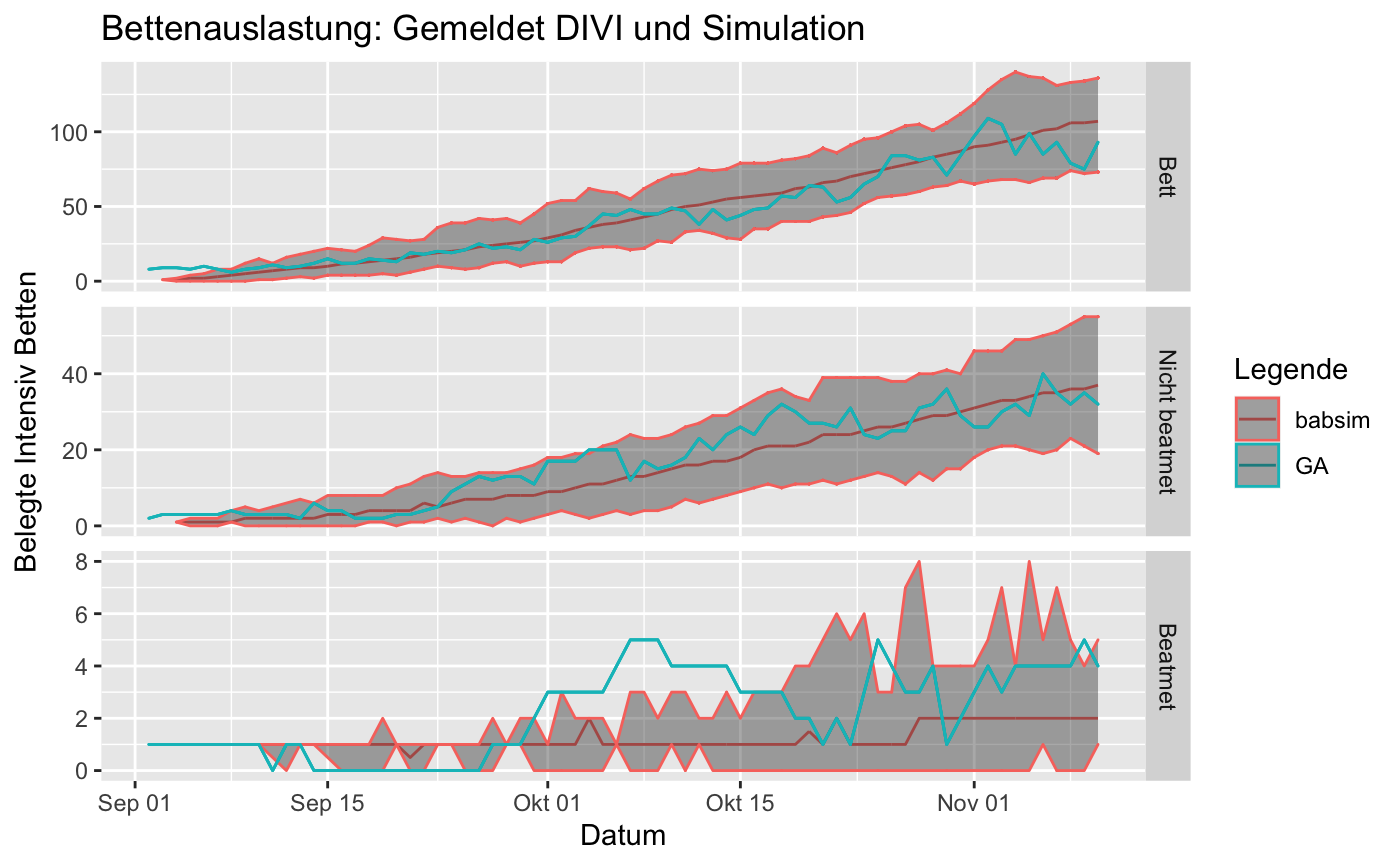
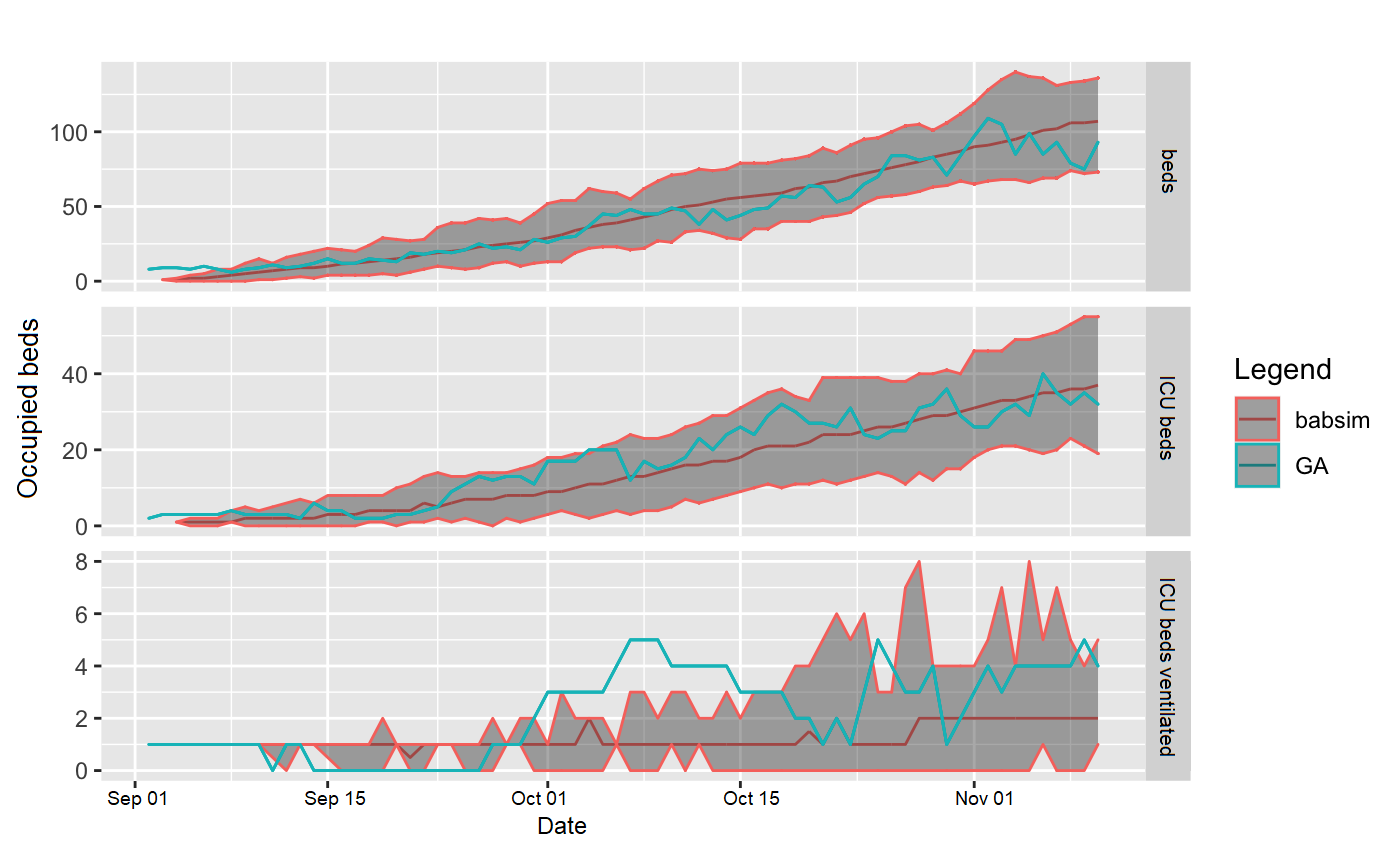
figs

diff --git a/bart21a.tex b/bart21a.tex
@@ -62,41 +62,65 @@
 \thanks{Identify applicable funding agency here. If none, delete this.}
 }
 
-\author{\IEEEauthorblockN{1\textsuperscript{st} Thomas Bartz-Beielstein}
+\author{\IEEEauthorblockN{Thomas Bartz-Beielstein}
 \IEEEauthorblockA{\textit{Inst. Data Science, Engineering, and Analytics} \\
-\textit{TH Köln}\\
-Cologne, Germany \\
+\textit{TH Köln}, Cologne, Germany \\
 \url{https://orcid.org/0000-0002-5938-5158}}
 \and
-\IEEEauthorblockN{2\textsuperscript{nd} Given Name Surname}
-\IEEEauthorblockA{\textit{dept. name of organization (of Aff.)} \\
-\textit{name of organization (of Aff.)}\\
-City, Country \\
-email address or ORCID}
+\IEEEauthorblockN{Marcel Dröscher}
+\IEEEauthorblockA{\textit{Inst. Data Science, Engineering, and Analytics} \\
+\textit{TH Köln}, Cologne, Germany \\
+Marcel\_ulrich.droescher@smail.th-koeln.de}
 \and
-\IEEEauthorblockN{3\textsuperscript{rd} Given Name Surname}
-\IEEEauthorblockA{\textit{dept. name of organization (of Aff.)} \\
-\textit{name of organization (of Aff.)}\\
-City, Country \\
-email address or ORCID}
+\IEEEauthorblockN{Alpar Gür}
+\IEEEauthorblockA{\textit{Inst. Data Science, Engineering, and Analytics} \\
+\textit{TH Köln}, Cologne, Germany \\
+alpar.guer@smail.th-koeln.de}
 \and
-\IEEEauthorblockN{4\textsuperscript{th} Given Name Surname}
+\IEEEauthorblockN{Alexander Hinterleitner}
 \IEEEauthorblockA{\textit{dept. name of organization (of Aff.)} \\
-\textit{name of organization (of Aff.)}\\
-City, Country \\
-email address or ORCID}
+\textit{TH Köln}, Cologne, Germany \\
+Alexander.Hinterleitner@th-koeln.de}
 \and
-\IEEEauthorblockN{5\textsuperscript{th} Given Name Surname}
-\IEEEauthorblockA{\textit{dept. name of organization (of Aff.)} \\
-\textit{name of organization (of Aff.)}\\
-City, Country \\
-email address or ORCID}
+\IEEEauthorblockN{Olaf Mersmann}
+\IEEEauthorblockA{\textit{Inst. Data Science, Engineering, and Analytics} \\
+\textit{TH Köln}, Cologne, Germany \\
+olaf.mersmann@th-koeln.de}
 \and
-\IEEEauthorblockN{6\textsuperscript{th} Given Name Surname}
-\IEEEauthorblockA{\textit{dept. name of organization (of Aff.)} \\
-\textit{name of organization (of Aff.)}\\
-City, Country \\
-email address or ORCID}
+\IEEEauthorblockN{Dessislava Peeva}
+\IEEEauthorblockA{\textit{Inst. Data Science, Engineering, and Analytics} \\
+\textit{TH Köln}, Cologne, Germany \\
+dessislava\_todorova.peeva@smail.th-koeln.de}
+\and
+\IEEEauthorblockN{Lennard Reese}
+\IEEEauthorblockA{\textit{Inst. Data Science, Engineering, and Analytics} \\
+\textit{TH Köln}, Cologne, Germany \\
+lennard.reese@smail.th-koeln.de}
+\and
+\IEEEauthorblockN{Nicolas Rehbach}
+\IEEEauthorblockA{\textit{Inst. Data Science, Engineering, and Analytics} \\
+\textit{TH Köln}, Cologne, Germany \\
+nicolas\_alexander.rehbach@smail.th-koeln.de}
+\and
+\IEEEauthorblockN{Frederik Rehbach}
+\IEEEauthorblockA{\textit{Inst. Data Science, Engineering, and Analytics} \\
+\textit{TH Köln}, Cologne, Germany \\
+frederik.rehbach@th-koeln.de}
+\and
+\IEEEauthorblockN{Amrita Sen}
+\IEEEauthorblockA{\textit{Inst. Data Science, Engineering, and Analytics} \\
+\textit{TH Köln}, Cologne, Germany \\
+amrita.sen@gmx.de}
+\and
+\IEEEauthorblockN{Aleksandr Subbotin}
+\IEEEauthorblockA{\textit{Inst. Data Science, Engineering, and Analytics} \\
+\textit{TH Köln}, Cologne, Germany \\
+aleksandr.subbotin@smail.th-koeln.de}
+\and
+\IEEEauthorblockN{Martin Zaefferer}
+\IEEEauthorblockA{\textit{Inst. Data Science, Engineering, and Analytics} \\
+\textit{TH Köln}, Cologne, Germany \\
+martin.zaefferer@th-koeln.de}
 }
 
 \maketitle
@@ -119,10 +143,10 @@ Policies and decisions made by hospital management professionals as well as poli
 
 This article reports the experiences that were collected over the last 12 months and provides answers to the following questions:
 \begin{compactenum}[(Q-1)]
-\item How to automate data collection and curation? 
 \item How to select a suitable simulation model?
 \item How to find an optimization algorithm that is able to solve noisy, dynamic, high-dimensional real-world problems?
-\item How to integrate domain knowledge and how to analyze simulation output?
+\item How to integrate domain knowledge?
+\item How to adapt a complex simulation model to a new environment?
 \end{compactenum}
 In the following, a holistic approach that demonstrates how tools from evolutionary optimization, simulation, sensitivity analysis, and machine learning can be combined to predict and understand demanding resource allocation problems is presented.
 We illustrate how the pieces can be put together in a complex software project, i.e., we consider the collection of noisy, dynamic, and heterogeneous data, data preprocessing, surrogate models to accelerate simulation, the optimization of the model parameters, and a parameter sensitivity analysis.
@@ -188,20 +212,46 @@ Information concerning \gls{ICU} in Germany can be retrieved from the \gls{DIVI}
 \gls{DIVI} provides an API and a daily report. The API does not provide all data the daily report consists of and therefore is not a viable option for this project.
 Web scraping was implemented as a reliable solution to retrieve the most current daily report from \gls{DIVI}.
 
+The official simulator, which can be accessed via \url{https://www.th-koeln.de/babsimhospital}, uses \gls{DIVI} and \gls{RKI} data.
+Its parameters are based on discussions with experts from Germany, especially \gls{ICU} doctors and experts from health administration.
+The online version is described in Section~\ref{sec:online}.
+
+This paper describes an extension of the interface that enables usage of data independently from \gls{DIVI} and \gls{RKI} data, i.e., an interface to csv files and excel files can be uses so that any kind of field and simulation data can be processed, simulated, and optimized.
+To demonstrated our approach, anonymised data from a region in the UK was used. T
+
+\begin{figure*}
+    \centering
+    \includegraphics[width=0.75\linewidth]{rkidata.png}
+    \caption{}
+\label{fig:rki}
+\end{figure*}
+
+\begin{figure*}
+    \centering
+    \includegraphics[width=0.75\linewidth]{dividata.png}
+    \caption{}
+\label{fig:divi}
+\end{figure*}
 
 \section{The Simulator}\label{sec:sim}
+\subsection{The Simulation Model}
 
 \babsimhospital simulates the typical paths that COVID-19 infected patients follow during their hospital stays. 
 The \gls{DES} processes every single recorded infection until the patients' recovery or death. 
 Patients follow a trajectory, i.e., they move with a probability $p_{ij}$ from state $S_i$ to state $S_j$  after a transition-specific duration $d_{ij}$.
-A graph can be used to model this behavior (\figref{fig:hospital}).
-\begin{figure}
+A graph can be used to model this behavior (\figref{fig:prob}).
+
+
+\begin{figure*}
     \centering
-    \includegraphics[width=0.95\linewidth]{hospital.pdf}
-    \caption{Simplified model of patient flows in a hospital. Nodes represent states ($S_i$). Edges represent state changes with associated probabilities ($p_{ij}$) and durations ($d_{ij})$.
-    Probabilities and durations at time step $t$ of the optimization will be collectively referred to as \emph{model parameters} $\vec{x}_t$.}
-\label{fig:hospital}
-\end{figure}
+    \includegraphics[width=0.75\linewidth]{prob.png}
+    \caption{Full model of patient flows in a hospital. Nodes represent states ($S_i$). Edges represent state changes with associated probabilities ($p_{ij}$). The nodes are labeled as follows: \emph{Infec:}\/ Number of people tested positiv for Covid-19, published by RKI, 
+\emph{out:}\/ Infected people not hospitalized, \emph{hosp:}\/ Hopitalized infected people, \emph{normal:}\/ Isolation ward, \emph{intens:}\/ Intensive care ward without invasive ventilation, \emph{vent:}\/ Intensive care ward with invasive ventilation, \emph{intafter:}\/ Intensive aftercare ward without invasive ventilation, \emph{aftercare:}\/ Aftercare isolation ward, \emph{healthy:}\/ Discharged as recovered, and \emph{death:}\/ Deceased.
+This graph shows the core of \babsimhospital. This sets \babsimhospital apart from other simulators. It enables a detailed analysis of the underlying events. Upon request, it can be adapted to the individual circumstances of interested parties.}
+\label{fig:prob}
+\end{figure*}
+
+
 For example, an infected patient (state $S_1$) goes to the hospital (state $S_2$) with probability $p_{12}$ after $d_{12}$ days. With probability $p_{17}$, she recovers (state $S_7$) after $d_{17}$ days. 
 The probabilities of outgoing nodes sum to 1, e.g., $p_{17} = 1 - p_{12}$.
 The modeling process includes four types of parameters: 
@@ -211,6 +261,7 @@ The modeling process includes four types of parameters:
 \item[distribution properties,] e.g., truncated and translated gamma distribution,
 \item[risk factors] depending on demographic groups, e.g., age, gender. 
 \end{description}
+
 
 The "risk" attribute is an important factor for the duration and severity of a COVID-19 infection. 
 Statistics show that the risk depends on the age and gender of the infected person. 
@@ -238,6 +289,42 @@ The simulation output, i.e, the required resources on each day $t$ will be denot
 \hat{y}_t = \left( \hat{R}_{\text{bed}}(t),   \hat{R}_{\text{icu}}(t), \hat{R}_{\text{vent}}(t) \right)
 \end{equation}
 Although the tool was designed to assist the German local authorities, it was already adapted and used for resource planing in hospitals in other countries.
+
+
+\subsection{The Online-Version}\label{sec:online}
+
+See Fig.~\ref{fig:demo}
+
+\begin{figure*}
+    \centering
+    \includegraphics[width=\linewidth]{demo.png}
+    \caption{Online version. }
+\label{fig:demo}
+\end{figure*}
+
+\babsimhospital has the following advantages for crisis teams:
+\begin{compactitem}
+\item Comparison with your own local planning
+\item Simulation of local events
+\item Adaptation to your own situation
+\item Simulation of any scenario (worst / best case)
+\item Simulation of any pandemic scenario, considering the local situation
+\item Standardized approach 
+\end{compactitem}
+Furthermore, it provides benefits for medical professionals, e.g.,
+\begin{compactitem}
+\item Analysis of the pandemic at local, regional, state and federal level
+\item Consideration of special risk groups
+\item Validation of the length of stay
+\item Validation of the probabilities
+\end{compactitem}
+
+Last, but not least, administration and management can benefit from \babsimhospital, because
+\begin{compactitem}
+\item Assessment of the situation of individual hospitals taking local events into account
+\item Consideration of relevant resources: beds, ventilators, rooms, protective clothing
+\item Personnel planning: medical and nursing staff
+\end{compactitem}
 
 \section{Optimization}\label{sec:optim}
 After the optimization-via-simulation problem is defined, this section describes the current state in optimization and discusses the selection of a suitable optimizer. 
@@ -309,15 +396,24 @@ To accelerate the \gls{SPOT}, simulations were run in parallel.
 Besides robust and relatively fast optimizations, \gls{SPOT} provides an additional advantage: surrogate models used by the optimizer can be used (``recycled'') for a sensitivity analysis. 
 
 \section{Optimization}\label{sec:sa}
+\subsection{Germany}
 
-\section{Results}\label{sec:results}
 
 
-\begin{compactitem} 
-\item[$x_{6}$:] The parameter 
-\item[$x_{7}$:] The parameter
-\item[$x_{8}$:] The parameter \
-\end{compactitem}
+\subsection{United Kingdom}
+The situation in UK differs significant compared to the situation in Germany, because the number of ventilated ICU beds is much smaller in the UK. 
+Therefore, patients are treated differently. 
+
+To implement the different setting, we modified the parameter boundaries as follows: the ICU with ventilation node has three incoming edges (hospital to icu vent, normal station to icu vent, and icu station to icu vent).
+By introducing a reduction factor, say  $c_1 \in \mathbb{R_+}$, that simply multiplies the default probabilities of patients reaching the icu ventilated node, we were able to redirect patients to other bed categories. 
+Choosing a value of $c_1=0.1$ results in improved simulation outputs. Please note that $c_1$ does not directly affect the probabilities, it modifies the search boundaries (constraints) of the optimizer.
+
+Simulation results of the ventilated icu beds were significantly improved (both: numerical RMSE and visual inspection as con be seen in Fig.~\ref{fig:optimized}.
+
+However, even if the ventilated icu bed usage was improved (bed category III), the simulation of the second bed category is not satisfying. We under estimate the number of icu beds.
+To fix this problem, we modified the duration of patients in icu beds: the search intervals of theses parameters were increased. Therefore, a second factor, say $c_2 \in \mathbb{R}_+$ was introduced to multiply the corresponding durations. A value of $c_2 = 2.0$ was chosen for our experiments.
+
+
 
 \begin{figure*}
   \centering
@@ -328,12 +424,29 @@ Besides robust and relatively fast optimizations, \gls{SPOT} provides an additio
 \end{figure*}
 \begin{figure*}
     \centering
+    \includegraphics[width=0.7\textwidth]{optimized01.png}
+    \caption{Real data compared to results from the \babsimhospital simulation with optimized parameters. The comparison with the results from Fig.~\ref{fig:default} shows a significant improvement. However, considering the regular \gls{ICU} beds (category II) there is still a difference between the real data and the simulated data. Therefore, a second adaption was necessary.
+  }
+\label{fig:optimized01}
+\end{figure*}
+\begin{figure*}
+    \centering
     \includegraphics[width=0.7\textwidth]{optimized.png}
     \caption{Real data compared to results from the \babsimhospital simulation with optimized parameters. The comparison with the results from Fig.~\ref{fig:default} shows a significant improvement. Residuals are much smaller,
-    because the simulation model parameters were adapted to the situation in UK hospitals.
+    because the simulation model parameters were adapted to the situation in UK hospitals. Additionally, simulation results for category II beds is improved.  
   }
 \label{fig:optimized}
 \end{figure*}
+
+\section{Results}\label{sec:results}
+
+
+\begin{compactitem} 
+\item[$x_{6}$:] The parameter 
+\item[$x_{7}$:] The parameter
+\item[$x_{8}$:] The parameter \
+\end{compactitem}
+
 
 
 \section{Discussion and Outlook}\label{sec:discussion}
